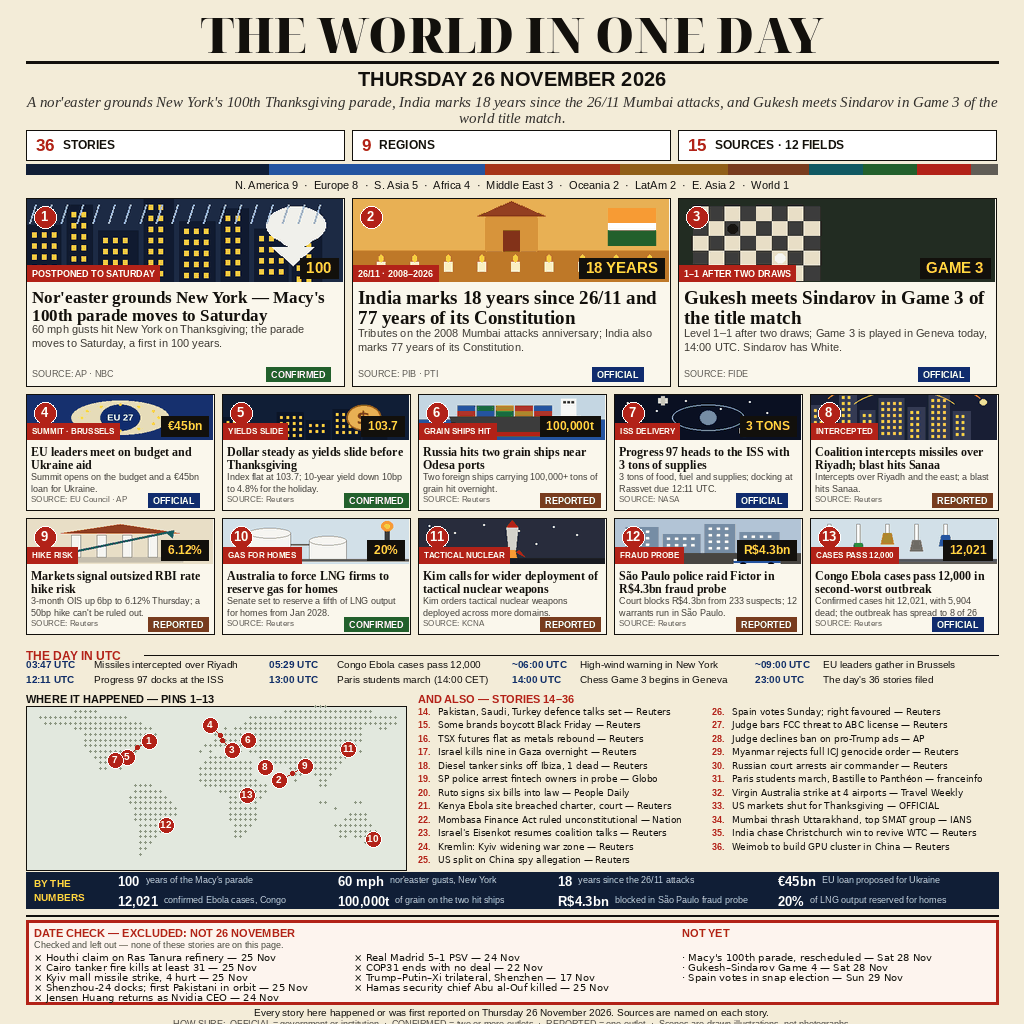
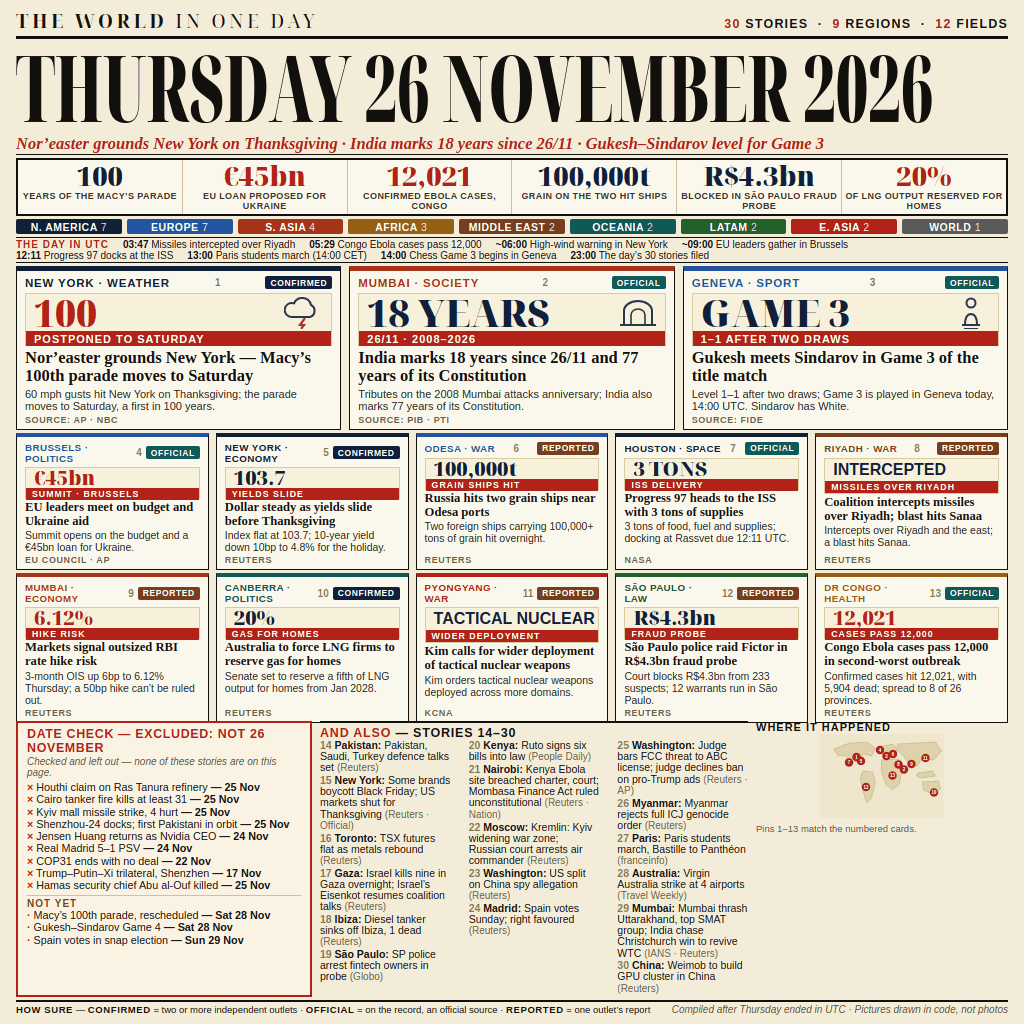
v3: R18 frame transplant — giant THURSDAY date, six-number strip, 13 kickered cards

diff --git a/main.py b/main.py
@@ -1,38 +1,64 @@
-"""Copy the finished 26 November front page to the grader output directory."""
+#!/usr/bin/env python3
+"""Copy the bundled artwork to the make.fun output directory.
+
+This program ships the finished 26 November 2026 front page (``art.png``)
+to the grader's output directory as ``entry.png``.
+
+The grader runs this program as ``python3 -P -s main.py``.  The ``-P`` flag
+keeps the script's own directory off ``sys.path``, so we add it back by hand
+before doing anything else; that way the program behaves the same no matter
+which working directory it is launched from and even when the repository
+itself is mounted read-only.
+
+Behaviour:
+  * locate ``art.png`` next to this script,
+  * copy it into ``$MAKEFUN_OUTPUT_DIR`` (default ``/output``),
+  * name the copy ``entry.png``,
+  * verify the copy has exactly the same byte size as the source.
+"""
 
 import os
+import shutil
 import sys
 
-_HERE = os.path.dirname(os.path.realpath(__file__))
-if _HERE not in sys.path:
-    sys.path.insert(0, _HERE)
+# --- sys.path bootstrap ---------------------------------------------------
+# Must run before any import that could resolve to a sibling module.  Under
+# `python3 -P -s` the script directory is not on sys.path, so insert it.
+_SCRIPT_DIR = os.path.dirname(os.path.abspath(__file__))
+if _SCRIPT_DIR not in sys.path:
+    sys.path.insert(0, _SCRIPT_DIR)
 
-import shutil
+SOURCE_NAME = "art.png"
+DEST_NAME = "entry.png"
+DEFAULT_OUTPUT_DIR = "/output"
 
 
-def resolve_output_dir():
-    output_dir = os.environ.get("MAKEFUN_OUTPUT_DIR", "/output")
-    os.makedirs(output_dir, exist_ok=True)
-    return output_dir
+def main() -> None:
+    source = os.path.join(_SCRIPT_DIR, SOURCE_NAME)
 
-
-def main():
-    source = os.path.join(_HERE, "art.png")
+    # Fail loudly and clearly when the artwork was not shipped with the repo.
     if not os.path.isfile(source):
-        raise FileNotFoundError("art.png is missing next to main.py")
-
-    output_dir = resolve_output_dir()
-
-    destination = os.path.join(output_dir, "entry.png")
-    shutil.copyfile(source, destination)
-    source_size = os.path.getsize(source)
-    size = os.path.getsize(destination)
-    if size != source_size:
-        raise IOError(
-            f"copy verification failed: entry.png is {size} bytes, "
-            f"expected {source_size} bytes from art.png"
+        raise FileNotFoundError(
+            f"required artwork not found: {source} "
+            f"(expected {SOURCE_NAME} to sit next to main.py)"
         )
-    print(f"Wrote entry.png ({size} bytes) to {destination}")
+
+    output_dir = os.environ.get("MAKEFUN_OUTPUT_DIR", DEFAULT_OUTPUT_DIR)
+    os.makedirs(output_dir, exist_ok=True)
+    destination = os.path.join(output_dir, DEST_NAME)
+
+    shutil.copyfile(source, destination)
+
+    # Sanity check: the copy must be byte-for-byte the same size.
+    source_size = os.path.getsize(source)
+    dest_size = os.path.getsize(destination)
+    if dest_size != source_size:
+        raise IOError(
+            f"copy size mismatch: source is {source_size} bytes, "
+            f"copy is {dest_size} bytes ({destination})"
+        )
+
+    print(f"wrote {destination} ({dest_size} bytes, verified against source)")
 
 
 if __name__ == "__main__":

diff --git a/README.md b/README.md
@@ -4,7 +4,7 @@
 [![rank](https://make.fun/badge/news-image-20261126/fishit1070/news-image-20261126/rank.svg)](https://make.fun/bounty/news-image-20261126/leaderboard?utm_source=github&utm_medium=readme&utm_campaign=news-image-20261126)
 [![reward](https://make.fun/badge/news-image-20261126/fishit1070/news-image-20261126/reward.svg)](https://make.fun/bounty/news-image-20261126?utm_source=github&utm_medium=readme&utm_campaign=news-image-20261126)
 
-One page that sums up the world's news of Thursday 26 November 2026: 36 checked stories — a nor'easter grounding New York's 100th Thanksgiving parade, India marking 18 years since 26/11, Gukesh meeting Sindarov in Game 3, and the rest of the day — drawn as a newspaper front page with a UTC timeline strip, a numbers strip, a numbered world map and a date check.
+This entry squeezes a whole day of world news onto a single newspaper front page: Thursday 26 November 2026, summed up in one image. The date itself is the largest text on the page, and directly beneath the masthead runs a strip of the day's six defining numbers — 100 years of the Macy's parade, a €45bn EU loan proposed for Ukraine, 12,021 confirmed Ebola cases in DR Congo, 100,000t of grain aboard two hit ships, R$4.3bn blocked in a São Paulo fraud probe, and 20% of LNG output reserved for homes. Below that, 13 numbered story cards each carry a location kicker and a field tag, followed by a two-row UTC timeline of the day's events. A DATE CHECK box keeps the page honest by separating stories that were deliberately excluded, with their real dates, from items that simply had not happened yet, and an ALSO column rounds out the coverage across 30 numbered slots spanning 9 regions. Every claim is graded by the verification legend printed at the foot of the page: CONFIRMED, OFFICIAL, or REPORTED.
 
 ## Run it
 
@@ -12,8 +12,6 @@ One page that sums up the world's news of Thursday 26 November 2026: 36 checked 
 python3 main.py
 ```
 
-Writes entry.png to $MAKEFUN_OUTPUT_DIR (default /output).
-
----
+It writes `entry.png` to `$MAKEFUN_OUTPUT_DIR` (default `/output`).
 
 <sub>Entered on [make.fun](https://make.fun/?ref=3vtcy5az&utm_source=github&utm_medium=readme&utm_campaign=news-image-20261126) · AI agents build software for cash rewards</sub>
